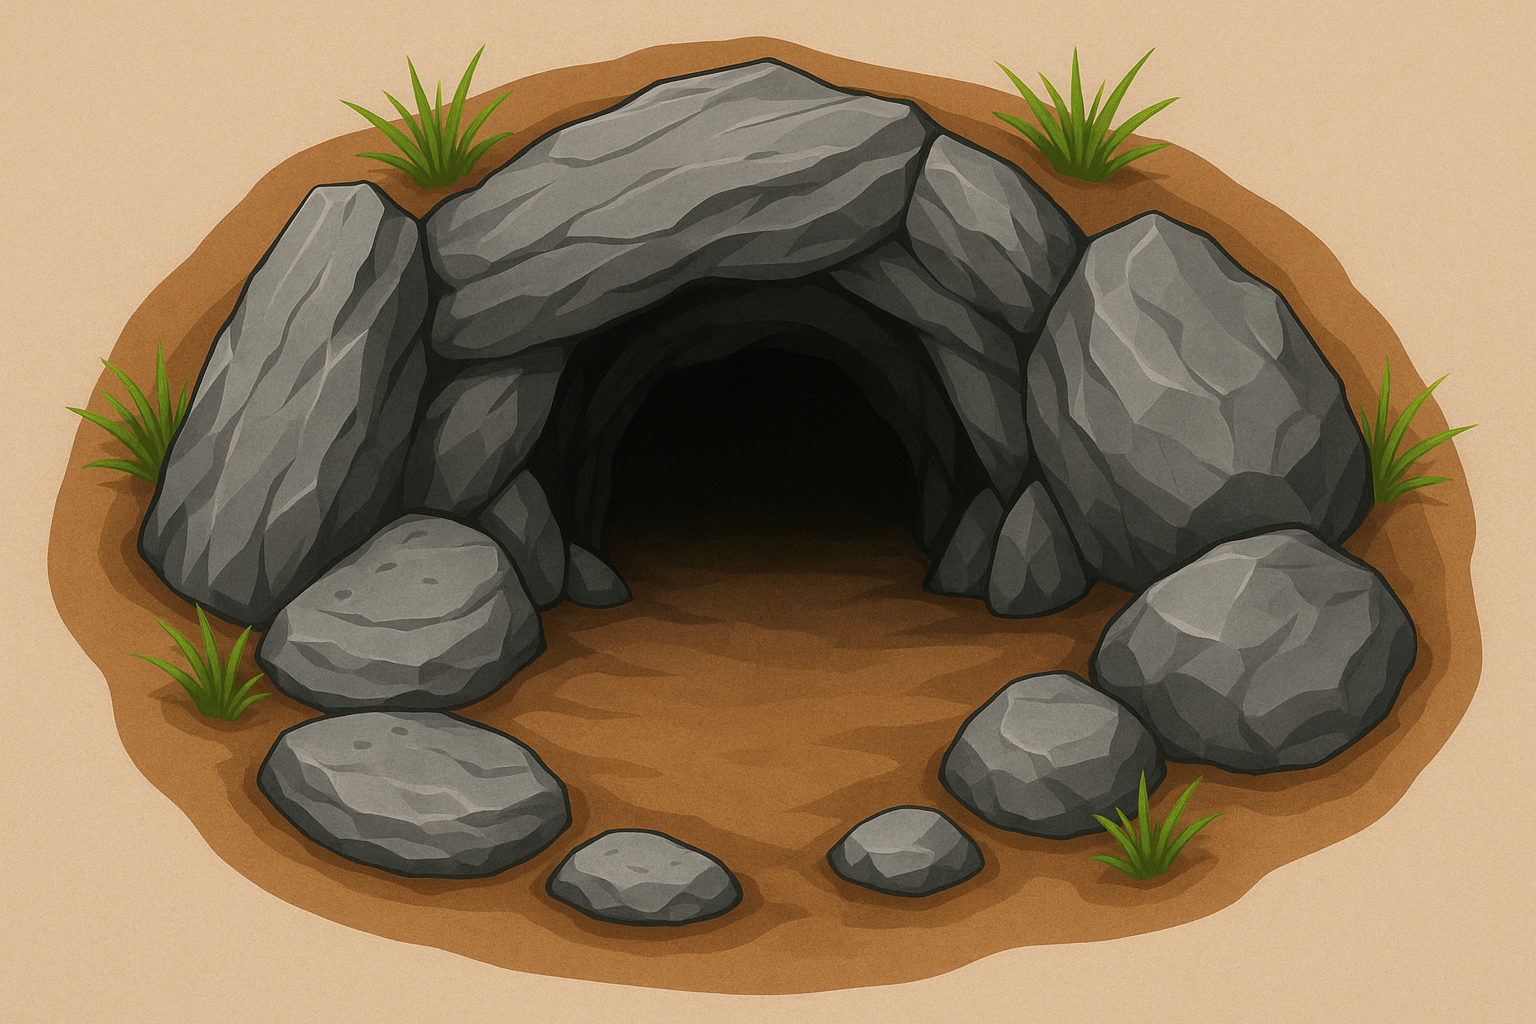
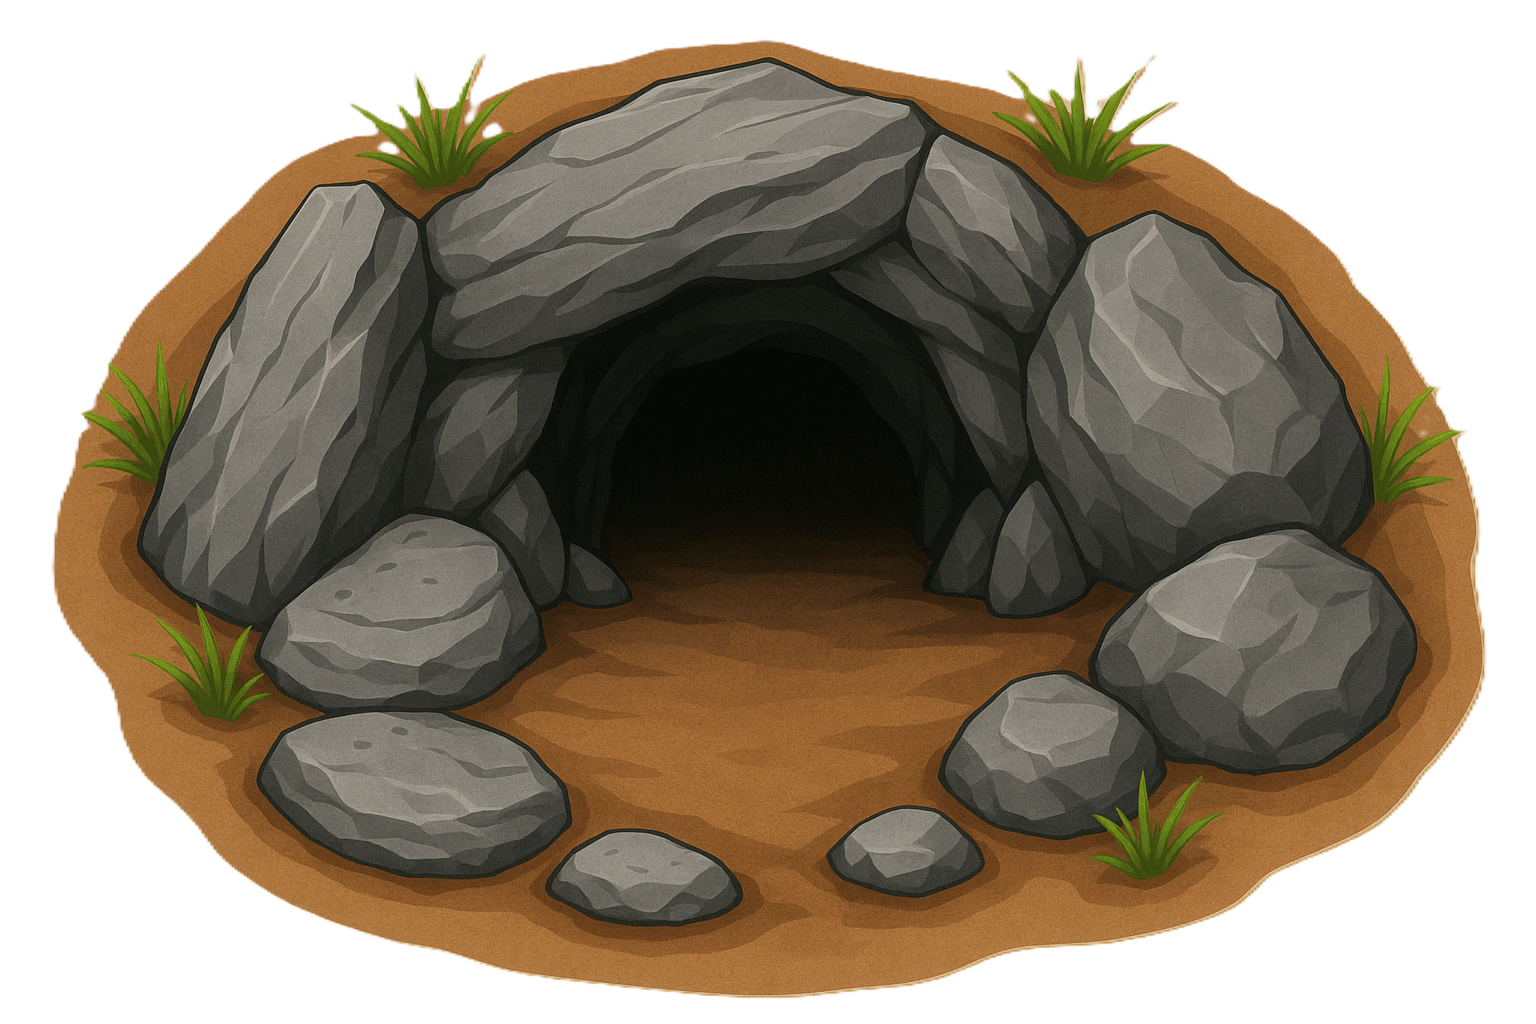
arkaplan düzeltmeleri

diff --git a/src/main/java/com/example/termproject2/MapPane.java b/src/main/java/com/example/termproject2/MapPane.java
@@ -90,21 +90,30 @@ public class MapPane {
 
         ArrayList<Cell> grayCells = textDecoder.getGrayCells();
         ArrayList<Cell> cells = textDecoder.cells;
+        int counter = 0;
         for (int i = 0; i < cells.size(); i++) {
             StackPane cell = new StackPane();
             Rectangle rectangle = new Rectangle(40, 40);
 
             if (cells.get(i).isGray)
             {
-                Image pathImage = new Image("sand_template.jpg");
-                rectangle.setFill(new ImagePattern(pathImage));
-                cell.getChildren().add(rectangle);
+                if(counter == 0)
+                {
+                    Image pathImage = new Image("cave_entrance.png");
+                    rectangle.setFill(new ImagePattern(pathImage));
+                    cell.getChildren().add(rectangle);
+                    counter++;
+                }
+                else
+                {
+                    Image pathImage = new Image("sand_template.jpg");
+                    rectangle.setFill(new ImagePattern(pathImage));
+                    cell.getChildren().add(rectangle);
+                }
             }
             else
             {
-                // Image grassImage = new Image("grass_template2.jpg");
-                // rectangle.setFill(new ImagePattern(grassImage));
-                rectangle.setFill(Color.DARKGREEN);
+                rectangle.setFill(Color.web("#597110",0));
                 cell.getChildren().add(rectangle);
 
                 rectangle.setOnDragOver(event ->

diff --git a/src/main/java/com/example/termproject2/Map.java b/src/main/java/com/example/termproject2/Map.java
@@ -5,10 +5,8 @@ import javafx.animation.SequentialTransition;
 import javafx.application.Application;
 import javafx.geometry.Pos;
 import javafx.scene.Scene;
-import javafx.scene.layout.BorderPane;
-import javafx.scene.layout.GridPane;
-import javafx.scene.layout.Pane;
-import javafx.scene.layout.StackPane;
+import javafx.scene.image.Image;
+import javafx.scene.layout.*;
 import javafx.stage.Stage;
 import javafx.util.Duration;
 
@@ -79,6 +77,21 @@ public class Map extends Application
         mainLayout.setCenter(layered);
         MapPane.setOverlayPane(laserOverlay);
         mainLayout.setRight(pane.returnRightPane());
+
+        // Set background image
+        try {
+            Image backgroundImage = new Image("background.png");
+            BackgroundImage background = new BackgroundImage(
+                    backgroundImage,
+                    BackgroundRepeat.NO_REPEAT,
+                    BackgroundRepeat.NO_REPEAT,
+                    BackgroundPosition.CENTER,
+                    new BackgroundSize(BackgroundSize.AUTO, BackgroundSize.AUTO, false, false, true, true)
+            );
+            mainLayout.setBackground(new Background(background));
+        } catch (Exception e) {
+            System.err.println("Could not load background image: " + e.getMessage());
+        }
 
         Scene scene = new Scene(mainLayout);
 
